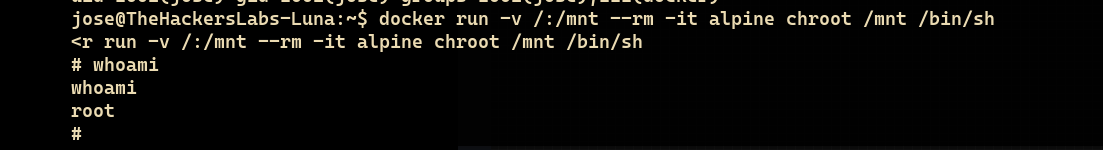
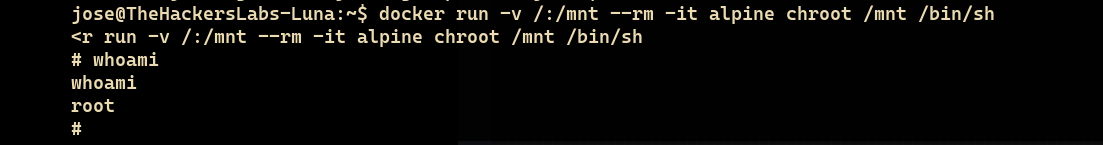
EDITED: falling particle's speed and opacity

diff --git a/script.js b/script.js
@@ -11,13 +11,15 @@ function resize() {
 }
 
 function createParticle() {
+    const opacity = 0.1 + Math.random() * 0.9;          // range: 0.1 → 1.0
+    const speed = 0.5 + ((opacity - 0.1) / 0.9) * 2; // range: 0.5 → 2.5 (proportional to opacity)
     return {
         x: Math.random() * canvas.width,
         y: Math.random() * canvas.height - canvas.height,
-        speed: 0.5 + Math.random() * 2,
+        speed,
         size: 10 + Math.random() * 8,
         char: chars[Math.floor(Math.random() * chars.length)],
-        opacity: 0.1 + Math.random() * 0.8
+        opacity
     };
 }
 